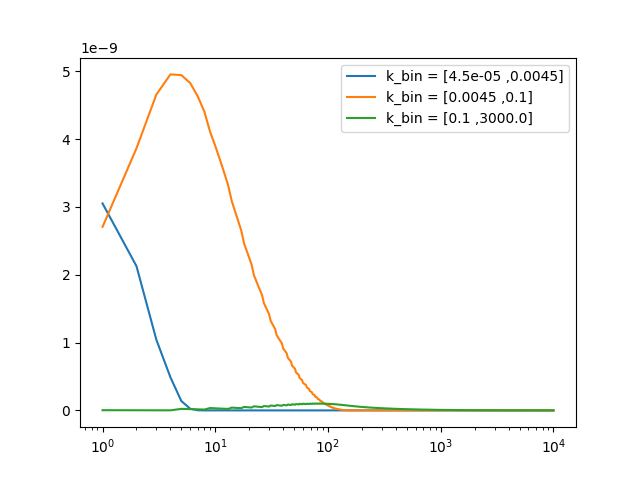
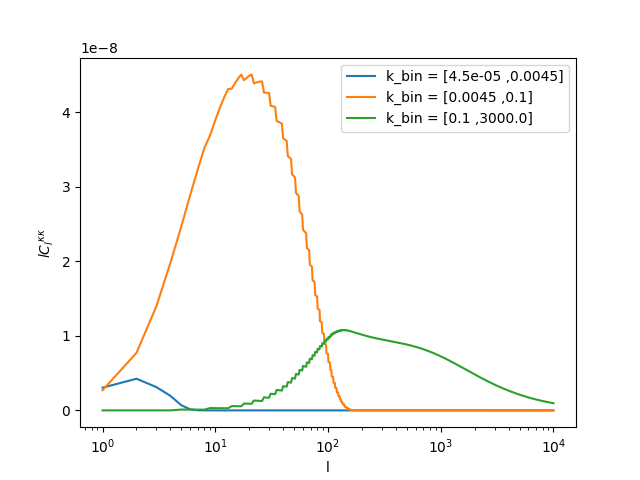
remade test plots

diff --git a/tests/test_clkk_basis_funcs.py b/tests/test_clkk_basis_funcs.py
@@ -9,19 +9,20 @@ import matplotlib.pyplot as plt
 alphas = np.array([0.5,0.3,0.1])
 k_bins = np.array([4.5e-5,4.5e-3,1.0e-1,3.0e3])
 
-pkcl1 = pk1.Cl_kk_supp()
+#pkcl1 = pk1.Cl_kk_supp()
 pkcl2 = pk2.Cl_kk_supp()
 
 pkcl2.k_bins = k_bins
 
-pkcl1.alphas = alphas
+#pkcl1.alphas = alphas
 
-Cl_o = pkcl1.get_Cl_kk(sup=False)
-Cl_1 = pkcl1.get_Cl_kk(sup=True)
+#Cl_o = pkcl1.get_Cl_kk(sup=False)
+#Cl_1 = pkcl1.get_Cl_kk(sup=True)
 Cl_2 = pkcl2.get_Cl_kk()
 
 cents,data_binned,cinv = pkcl2.make_mock_data(alphas,k_bins)
 
+"""
 fig = plt.figure()
 plt.loglog(pkcl1.ells,Cl_o,label="not sup, original")
 plt.loglog(pkcl1.ells,Cl_1,label="sup, original")
@@ -30,19 +31,22 @@ plt.loglog(cents,data_binned,label="sup, new, binned")
 #plt.loglog(cents,data_binned,label="sup, original,binned")
 plt.legend()
 plt.savefig("../plots/cl_kk_old_new.png")
-
+"""
 k_bins = np.round(k_bins,decimals = 6)
 
 fig = plt.figure()
-plt.plot(pkcl1.ells,Cl_o,label="not sup, original")
+#plt.plot(pkcl1.ells,Cl_o,label="not sup, original")
 #plt.loglog(pkcl1.ells,Cl_1,label="sup, origianl")
 for i in range(len(alphas)):
     lab = 'k_bin = ['+str(k_bins[i])+" ,"+str(k_bins[i+1])+"]"
-    plt.plot(pkcl2.ells,Cl_2[:,i],label=lab)
+    plt.plot(pkcl2.ells,pkcl2.ells*Cl_2[:,i],label=lab)
 #plt.loglog(cents,data_binned,label="sup, original,binned")
 plt.xscale("log")
+plt.ylabel("$lC{_l}^{\kappa \kappa}$")
+plt.xlabel("l")
 plt.legend()
 plt.savefig("../plots/cl_kk_fid_basis_funcs.png")
+plt.close(fig)
 
 
 fig = plt.figure()
@@ -50,8 +54,10 @@ fig = plt.figure()
 #plt.loglog(pkcl1.ells,Cl_1,label="sup, origianl")
 for i in range(len(alphas)):
     lab = 'k_bin = ['+str(k_bins[i])+" ,"+str(k_bins[i+1])+"]"
-    plt.plot(pkcl2.ells,alphas[i]*Cl_2[:,i],label=lab)
+    plt.plot(pkcl2.ells,alphas[i]*pkcl2.ells*Cl_2[:,i],label=lab)
 #plt.loglog(cents,data_binned,label="sup, original,binned")
+plt.ylabel("$lC{_l}^{\kappa \kappa}$")
+plt.xlabel("l")
 plt.xscale("log")
 plt.legend()
 plt.savefig("../plots/cl_kk_sup_basis_funcs.png")
